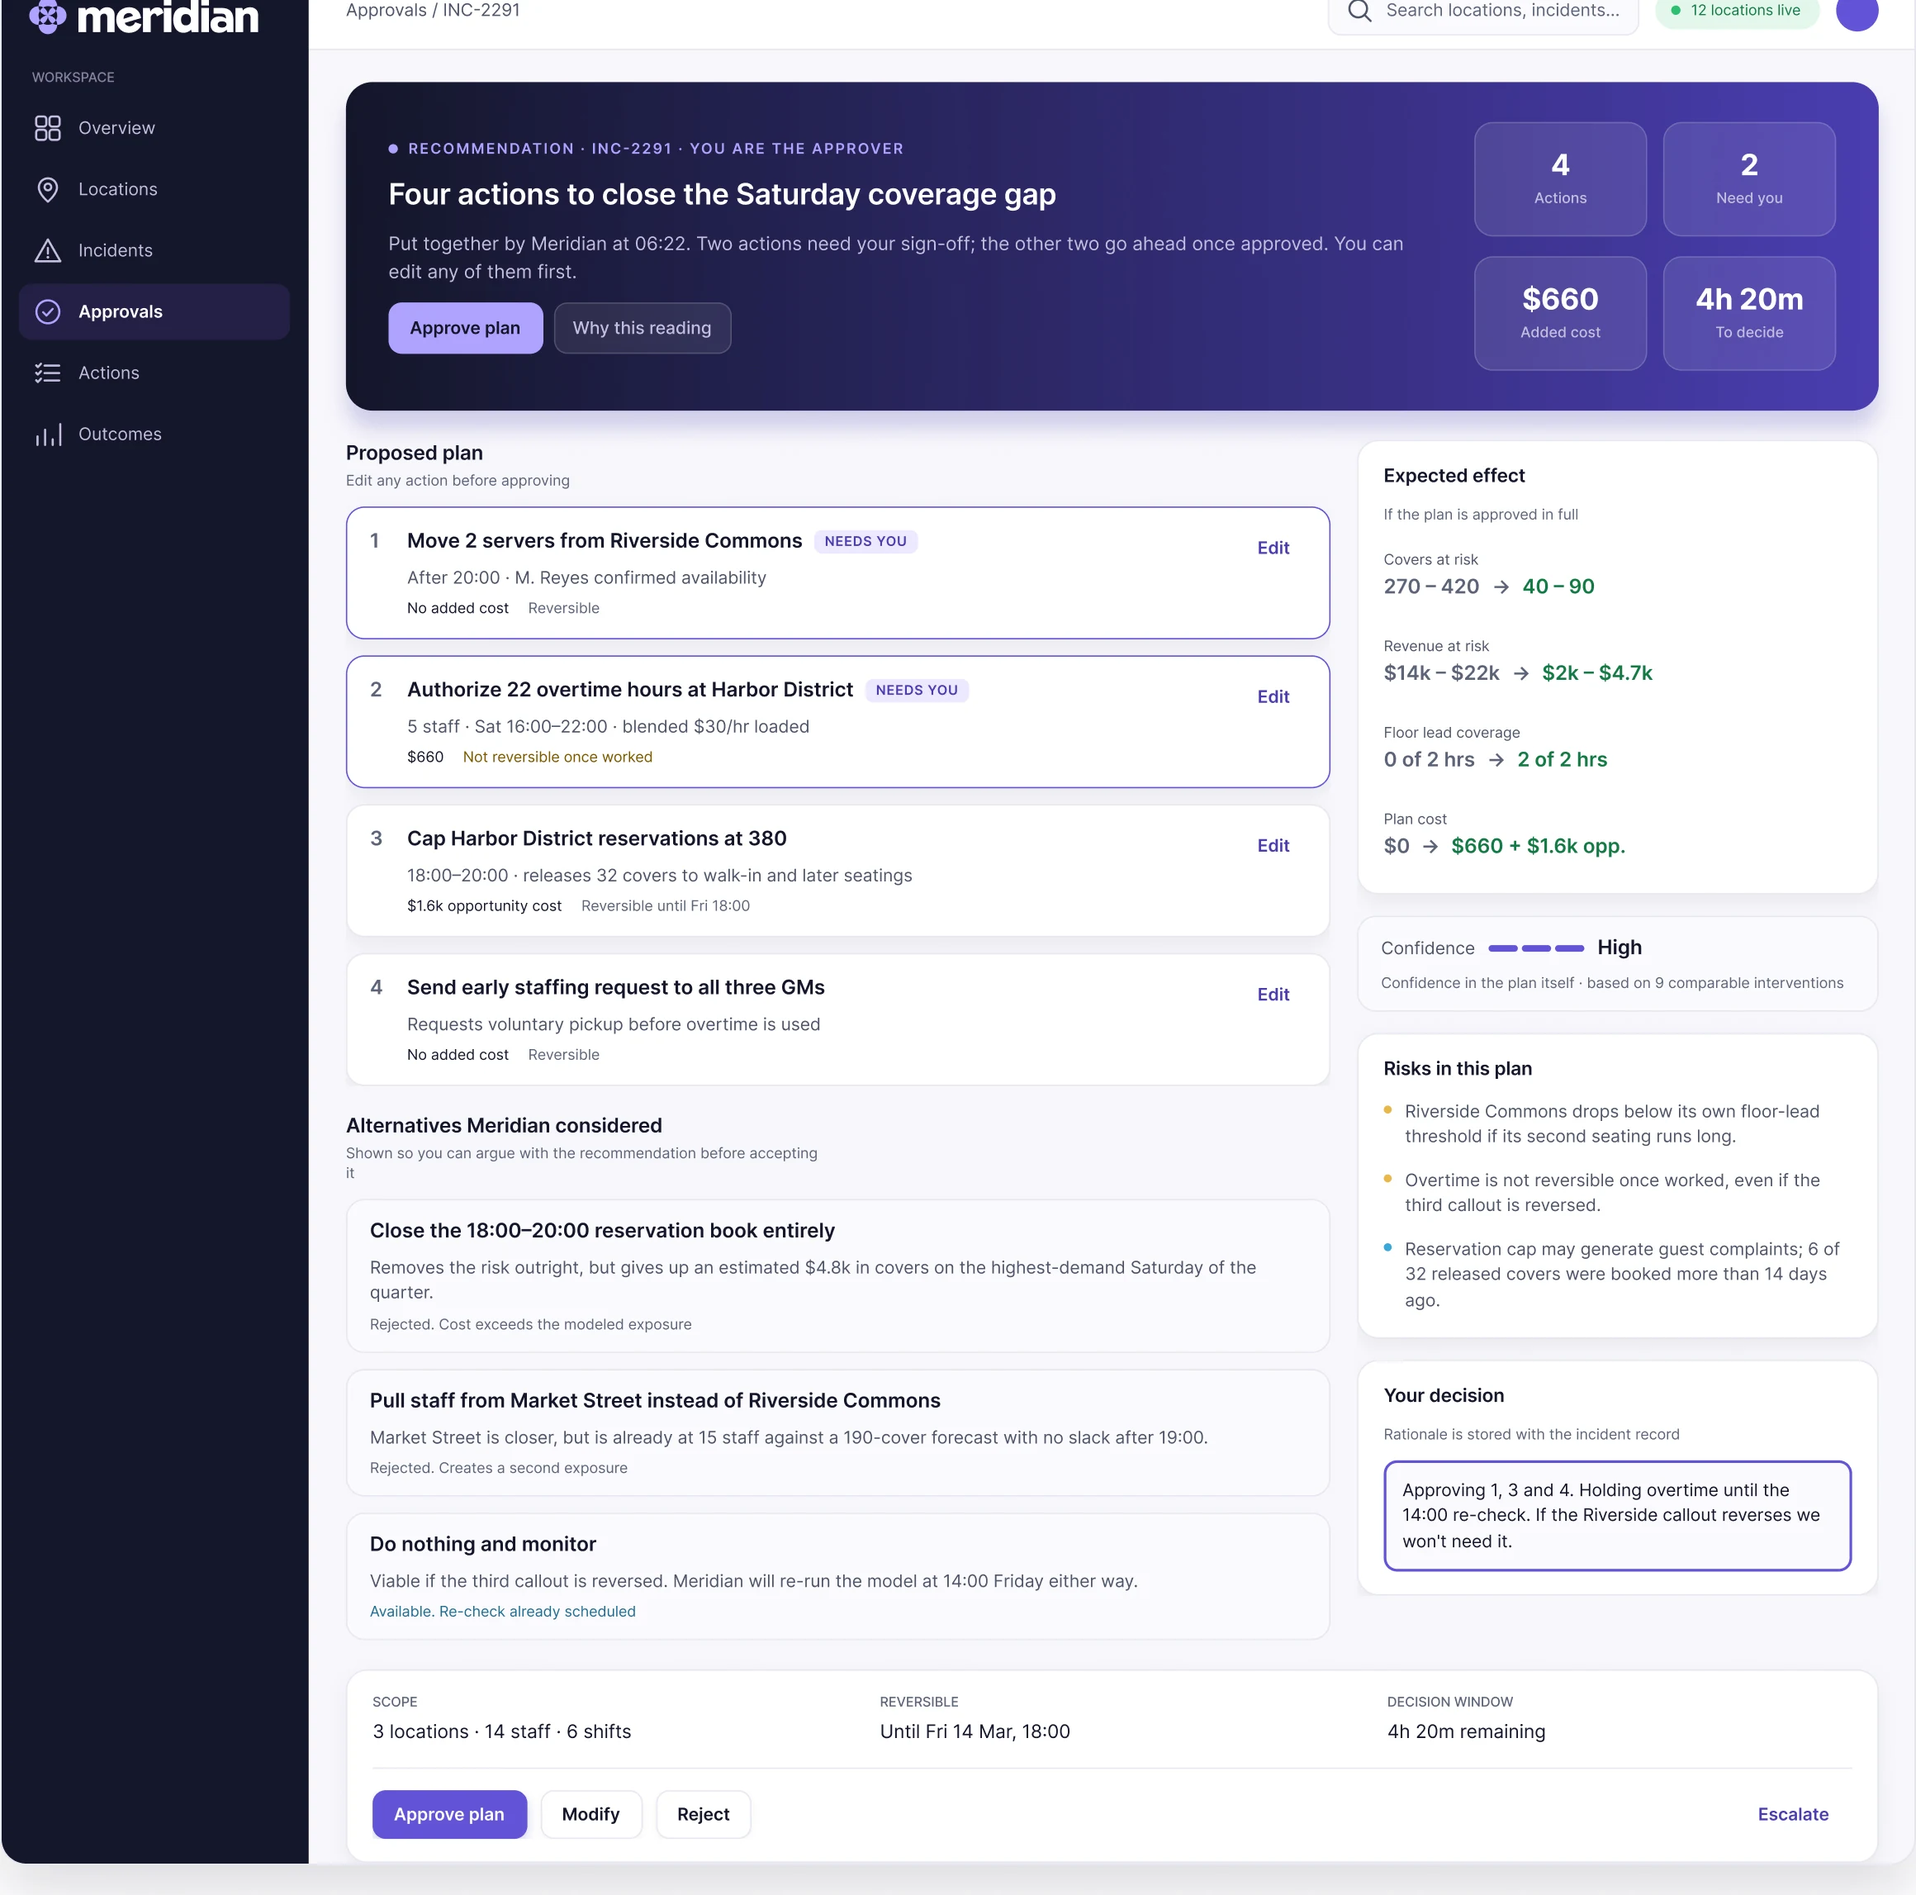
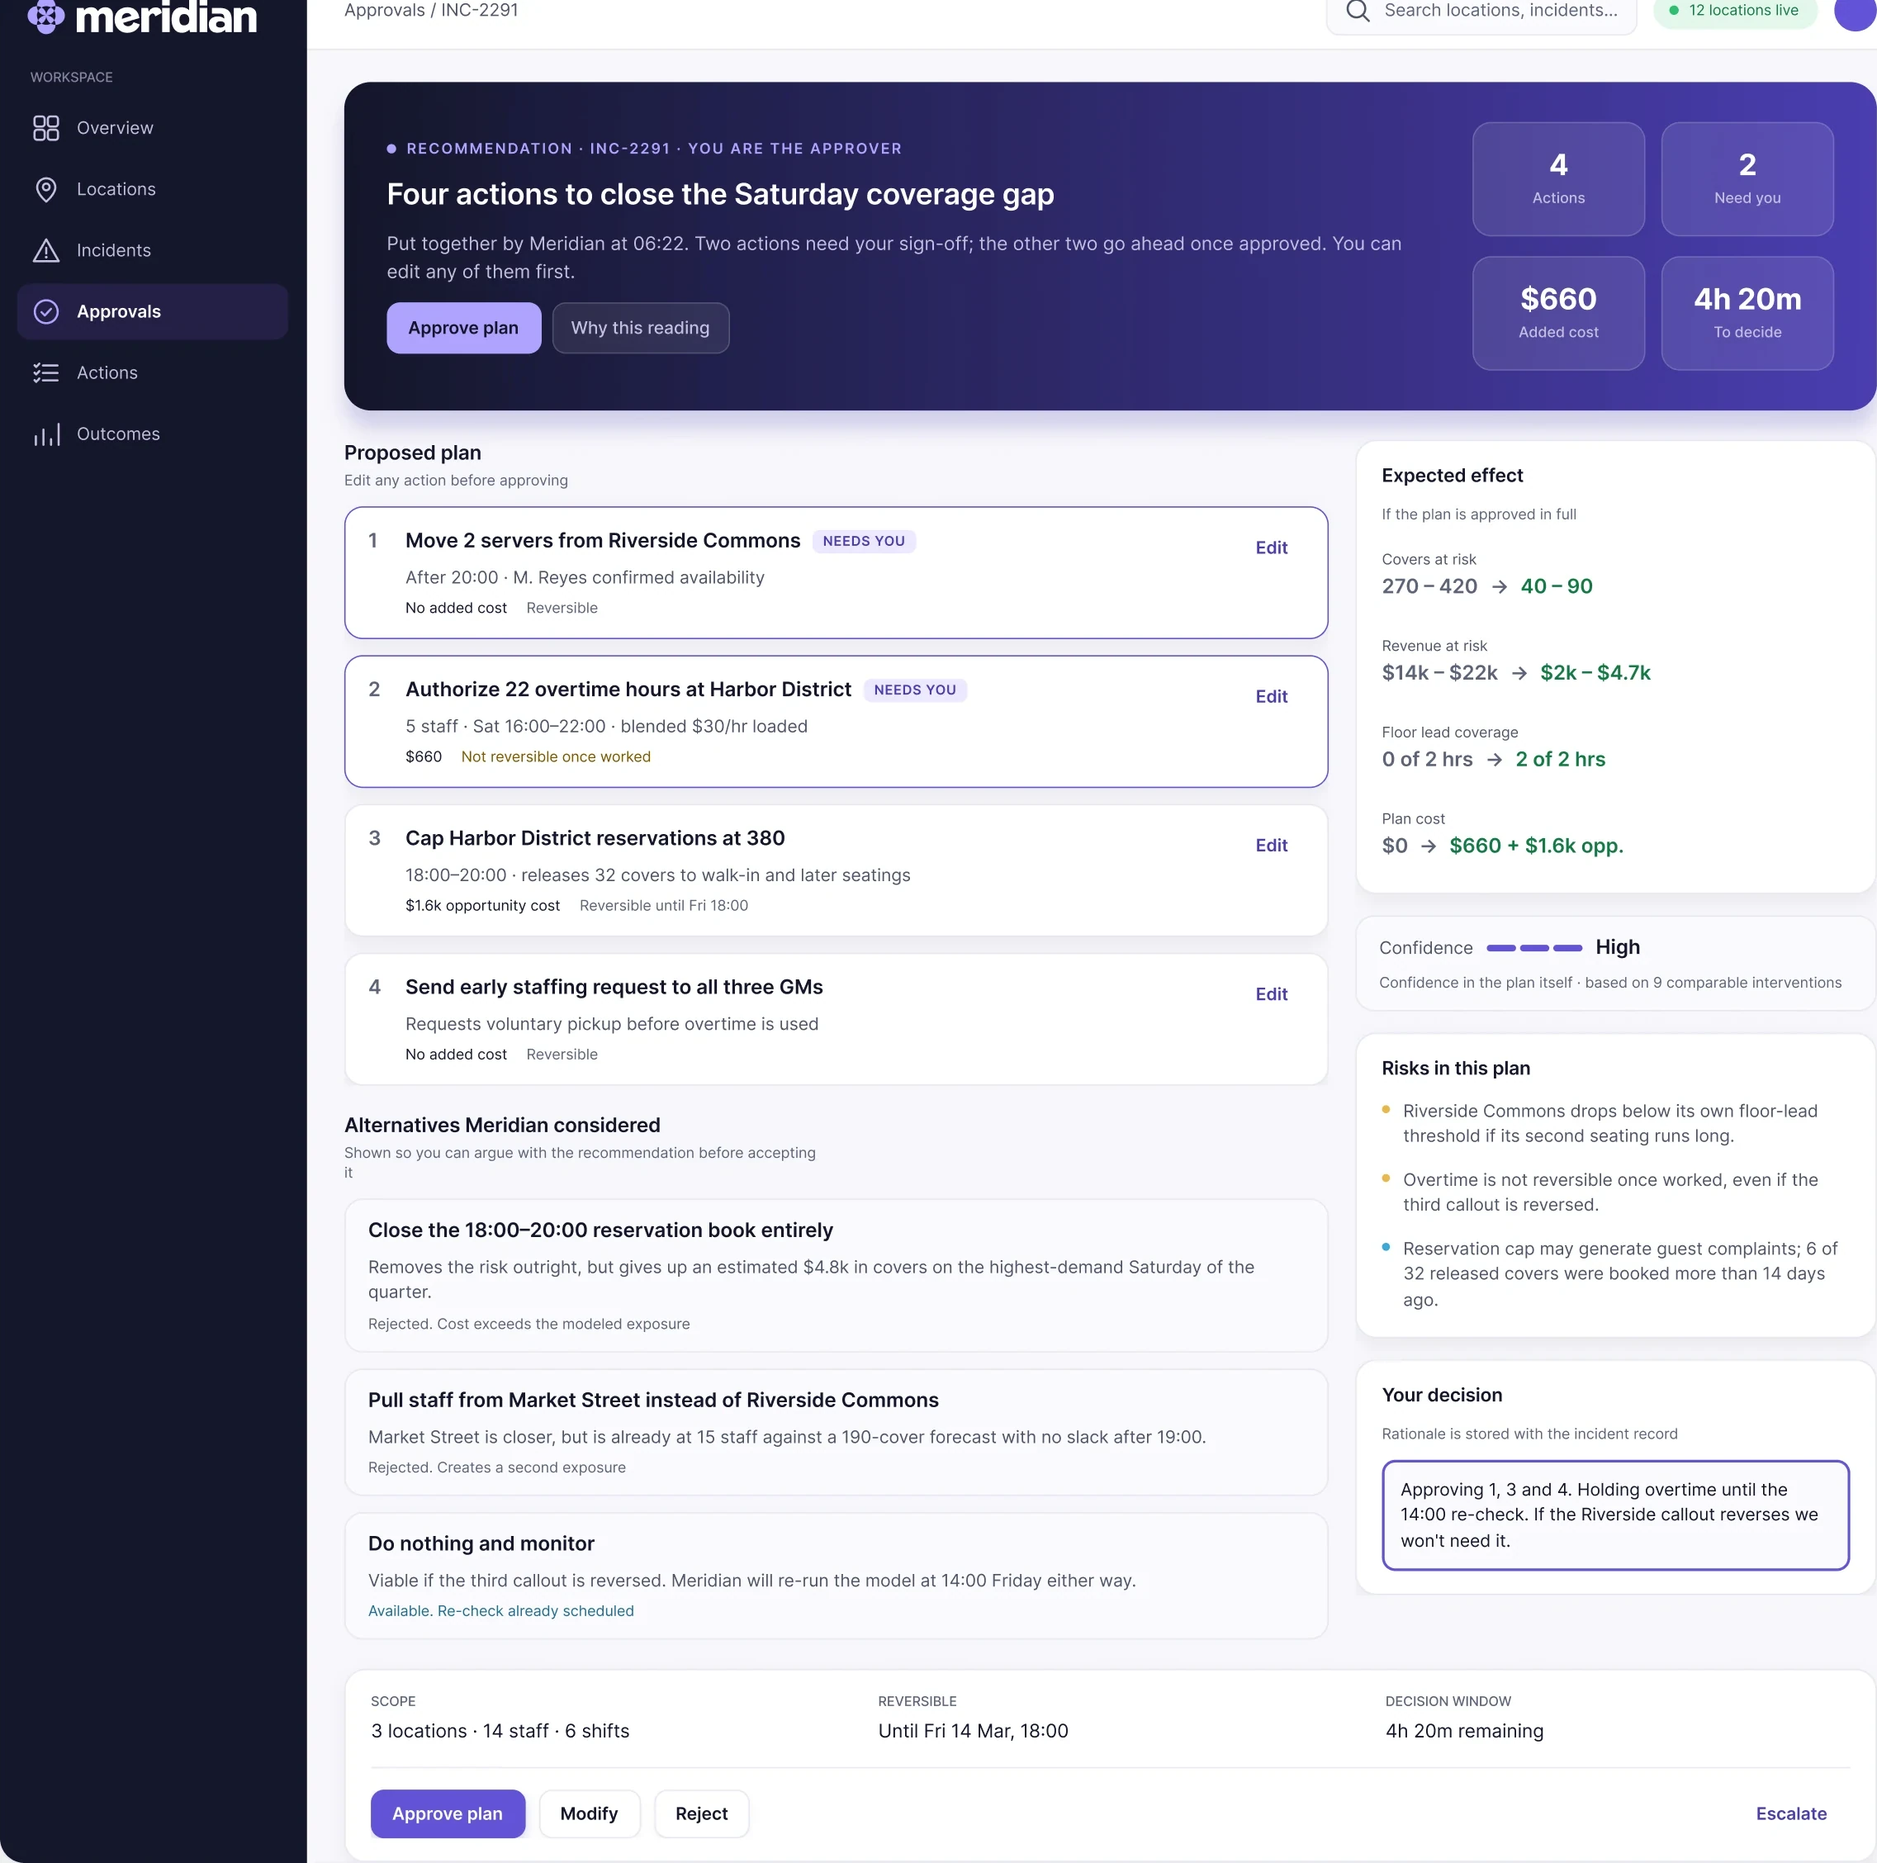
Stop clipping Meridian screenshot chrome and recrop the case-study stills.
The CSS frame was eating the top of flush WebP exports, so drop the radius/overflow clip and ship the cropped assets through GitHub instead of a CLI upload.

diff --git a/app/meridian/page.tsx b/app/meridian/page.tsx
@@ -191,7 +191,7 @@ export default function Meridian() {
     Covers at risk, revenue at risk.</p>
     <figure>
       <div className="shot">
-        <img src="/assets/meridian-control-tower.webp" alt="Control Tower: regional overview with priority incidents and approvals queue" width="1160" height="825" loading="lazy" />
+        <img src="/assets/meridian-control-tower.webp" alt="Control Tower: regional overview with priority incidents and approvals queue" width="1137" height="806" loading="lazy" />
       </div>
     </figure>
     <div className="notes">
@@ -212,7 +212,7 @@ export default function Meridian() {
     you to act until the situation's been explained in words you could repeat to your own boss.</p>
     <figure>
       <div className="shot">
-        <img src="/assets/meridian-incident.webp" alt="Incident Workspace: plain-language summary, contributing signals, evidence and recommended response" width="1160" height="1282" loading="lazy" />
+        <img src="/assets/meridian-incident.webp" alt="Incident Workspace: plain-language summary, contributing signals, evidence and recommended response" width="1137" height="1263" loading="lazy" />
       </div>
     </figure>
     <div className="notes">
@@ -233,7 +233,7 @@ export default function Meridian() {
     costs, what you can undo, and how long you have to decide.</p>
     <figure>
       <div className="shot">
-        <img src="/assets/meridian-recommendation.webp" alt="Recommendation Review: four proposed actions, alternatives considered, expected effect and decision record" width="1160" height="1147" loading="lazy" />
+        <img src="/assets/meridian-recommendation.webp" alt="Recommendation Review: four proposed actions, alternatives considered, expected effect and decision record" width="1137" height="1128" loading="lazy" />
       </div>
     </figure>
     <div className="notes">
@@ -255,7 +255,7 @@ export default function Meridian() {
     accept them.</p>
     <figure>
       <div className="shot">
-        <img src="/assets/meridian-outcome.webp" alt="Outcome and Learning: predicted vs actual, decision record, and proposed model changes" width="1160" height="973" loading="lazy" />
+        <img src="/assets/meridian-outcome.webp" alt="Outcome and Learning: predicted vs actual, decision record, and proposed model changes" width="1137" height="954" loading="lazy" />
       </div>
     </figure>
 
@@ -295,7 +295,7 @@ export default function Meridian() {
       threshold so you're not left wondering whether it's broken.</p>
       <figure>
         <div className="shot narrow">
-          <img src="/assets/meridian-edge-allclear.webp" alt="All-clear zero state" width="692" height="420" loading="lazy" />
+          <img src="/assets/meridian-edge-allclear.webp" alt="All-clear zero state" width="647" height="418" loading="lazy" />
         </div>
       </figure>
     </div>
@@ -306,7 +306,7 @@ export default function Meridian() {
       lists the three things that would change its mind, and offers to hand it to a person.</p>
       <figure>
         <div className="shot narrow">
-          <img src="/assets/meridian-edge-lowconfidence.webp" alt="Low-confidence state where Meridian declines to recommend" width="692" height="420" loading="lazy" />
+          <img src="/assets/meridian-edge-lowconfidence.webp" alt="Low-confidence state where Meridian declines to recommend" width="647" height="418" loading="lazy" />
         </div>
         <figcaption>Revenue at risk reads <b>Withheld · Not modeled</b>. A range this wide would just be
         a guess.</figcaption>
@@ -320,7 +320,7 @@ export default function Meridian() {
       second re-check.</p>
       <figure>
         <div className="shot narrow">
-          <img src="/assets/meridian-edge-rejected.webp" alt="Rejected approval state with recorded rationale" width="692" height="420" loading="lazy" />
+          <img src="/assets/meridian-edge-rejected.webp" alt="Rejected approval state with recorded rationale" width="647" height="418" loading="lazy" />
         </div>
       </figure>
     </div>

diff --git a/app/globals.css b/app/globals.css
@@ -151,9 +151,9 @@
   figure{margin:38px 0 0}
 
   .shot{position:relative;width:100%;max-width:1160px;margin-inline:auto;
-    border-radius:var(--r-card);overflow:hidden;box-shadow:var(--shadow)}
-  /* the 2x Meridian exports are JPEG, so no alpha to carry a drop shadow.
-     Bleed was cropped off; the frame lives here instead. */
+    box-shadow:var(--shadow)}
+  /* Screens are flush crops. A radius plus overflow:hidden clipped the top of
+     the chrome, so the frame is a shadow only. */
   .theme-pair{display:grid;grid-template-columns:1fr 1fr;gap:clamp(14px,2vw,26px);
     margin-top:38px;align-items:start}
   .theme-pair .shot{max-width:none;margin-inline:0}
@@ -161,9 +161,7 @@
 
   .shot.narrow{max-width:860px;margin-inline:0}
 
-  /* the Figma exports carry their own rounded frame + drop shadow in the alpha
-     channel, so the container adds no border, background or shadow of its own */
-  .shot img{display:block;width:100%;height:auto}
+  .shot img{display:block;width:100%;max-width:100%;height:auto}
 
   .shot.missing{border:1px solid var(--rule);border-radius:var(--r-card);background:var(--paper-2)}
 
@@ -722,7 +720,6 @@
 
   .ladder li{grid-template-columns:40px 1fr;gap:12px;padding:16px}
   .meta div,.stats div,.note,.challenges > div{padding:16px}
-  .shot{border-radius:12px}
 
   .mailto,.contact .btn.primary{width:100%;justify-content:center}
   .contact h2{max-width:12ch}
